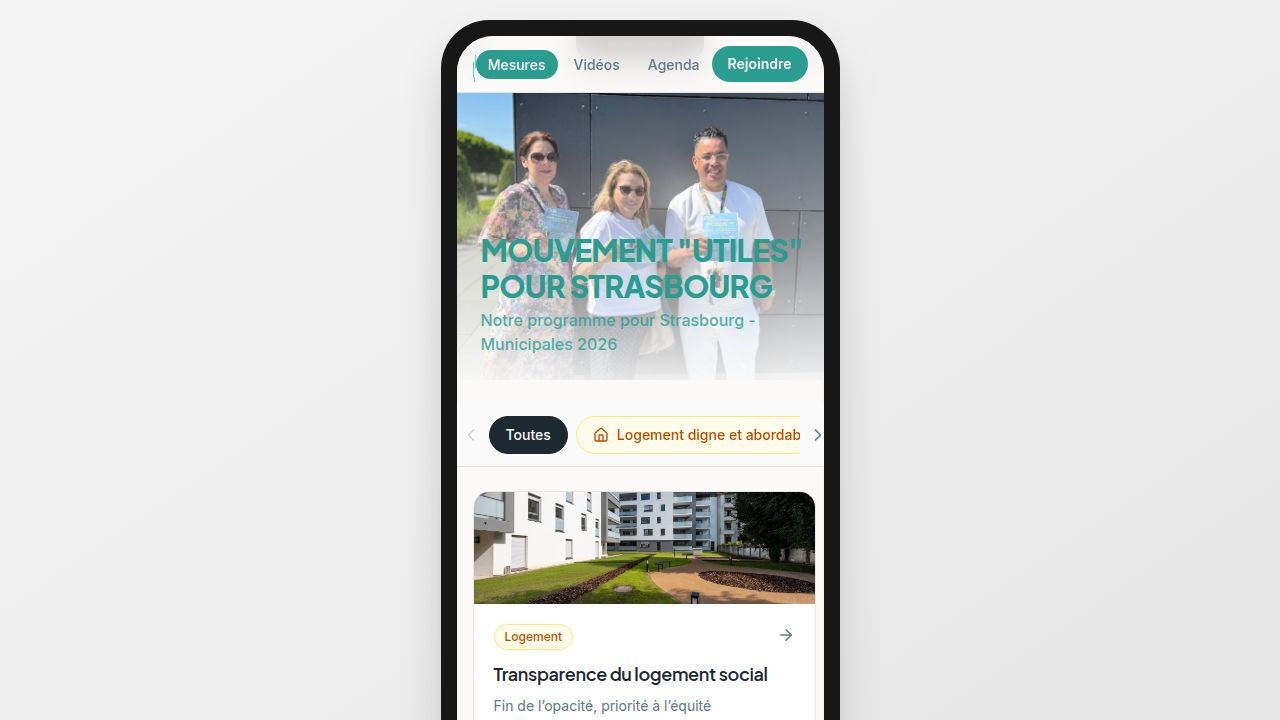
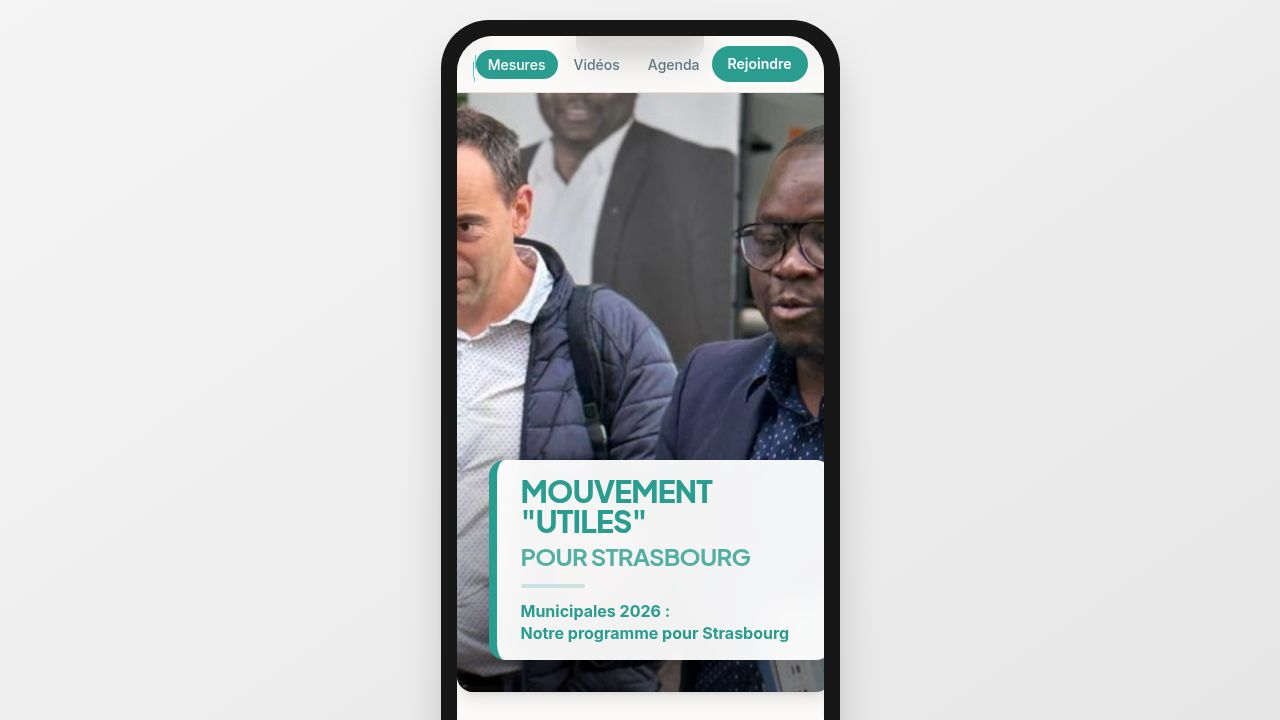
Prioritize candidate image and adjust text placement in hero section
Update `HeroSection.tsx` to increase hero image height, adjust object-position, and reposition text content to the bottom-left for better visual hierarchy.

Replit-Commit-Author: Agent
Replit-Commit-Session-Id: 1703bec5-6408-4646-ba93-b8c6a1c21d9c
Replit-Commit-Checkpoint-Type: full_checkpoint
Replit-Commit-Event-Id: bd8b595b-b536-4833-b504-75432be48016
Replit-Commit-Screenshot-Url: https://storage.googleapis.com/screenshot-production-us-central1/ec70ea8e-bdb7-4617-b2cb-5cd2de7edaff/1703bec5-6408-4646-ba93-b8c6a1c21d9c/gKrZl9U
Replit-Helium-Checkpoint-Created: true

Changed region(s): [[0.3438, 0.1222, 0.6562, 1.0]]

diff --git a/client/src/components/HeroSection.tsx b/client/src/components/HeroSection.tsx
@@ -1,22 +1,23 @@
 export function HeroSection() {
   return (
     <section className="relative -mx-4 mb-6 animate-fade-up">
-      <div className="relative h-64 sm:h-96 overflow-hidden rounded-b-2xl shadow-lg">
+      <div className="relative h-[500px] sm:h-[600px] overflow-hidden rounded-b-2xl shadow-lg">
         <img
           src="/measures/hero-new.jpg"
           alt="Mouvement Utiles pour Strasbourg - Mohamed Sylla"
-          className="w-full h-full object-cover object-[50%_20%]"
+          className="w-full h-full object-cover object-[50%_15%]"
           loading="eager"
         />
-        <div className="absolute inset-0 bg-gradient-to-t from-black/60 via-transparent to-transparent" />
-        <div className="absolute bottom-0 left-0 right-0 p-6 sm:p-8 flex flex-col items-center text-center">
-          <div className="bg-white/95 backdrop-blur-sm px-6 py-3 rounded-2xl shadow-xl border border-primary/10 max-w-2xl transform hover:scale-[1.02] transition-transform duration-300">
-            <h1 className="font-display font-black text-2xl sm:text-4xl text-primary mb-2 uppercase tracking-tight leading-tight">
-              MOUVEMENT "UTILES" POUR STRASBOURG
+        <div className="absolute inset-0 bg-gradient-to-t from-black/50 via-transparent to-transparent" />
+        <div className="absolute bottom-8 left-4 right-4 sm:left-8 sm:right-auto max-w-lg">
+          <div className="bg-white/95 backdrop-blur-md px-6 py-4 rounded-2xl shadow-2xl border-l-8 border-primary transform transition-transform duration-300 hover:scale-[1.01]">
+            <h1 className="font-display font-black text-2xl sm:text-3xl text-primary mb-1 uppercase tracking-tight leading-none">
+              MOUVEMENT "UTILES"
+              <span className="block text-xl sm:text-2xl font-bold mt-1 text-primary/80">POUR STRASBOURG</span>
             </h1>
-            <div className="h-1 w-24 bg-primary/20 mx-auto mb-3 rounded-full"></div>
-            <p className="text-primary font-bold text-base sm:text-lg">
-              Municipales 2026 : Notre programme pour Strasbourg
+            <div className="h-1 w-16 bg-primary/20 my-3 rounded-full"></div>
+            <p className="text-primary font-bold text-sm sm:text-base leading-snug">
+              Municipales 2026 :<br/>Notre programme pour Strasbourg
             </p>
           </div>
         </div>
